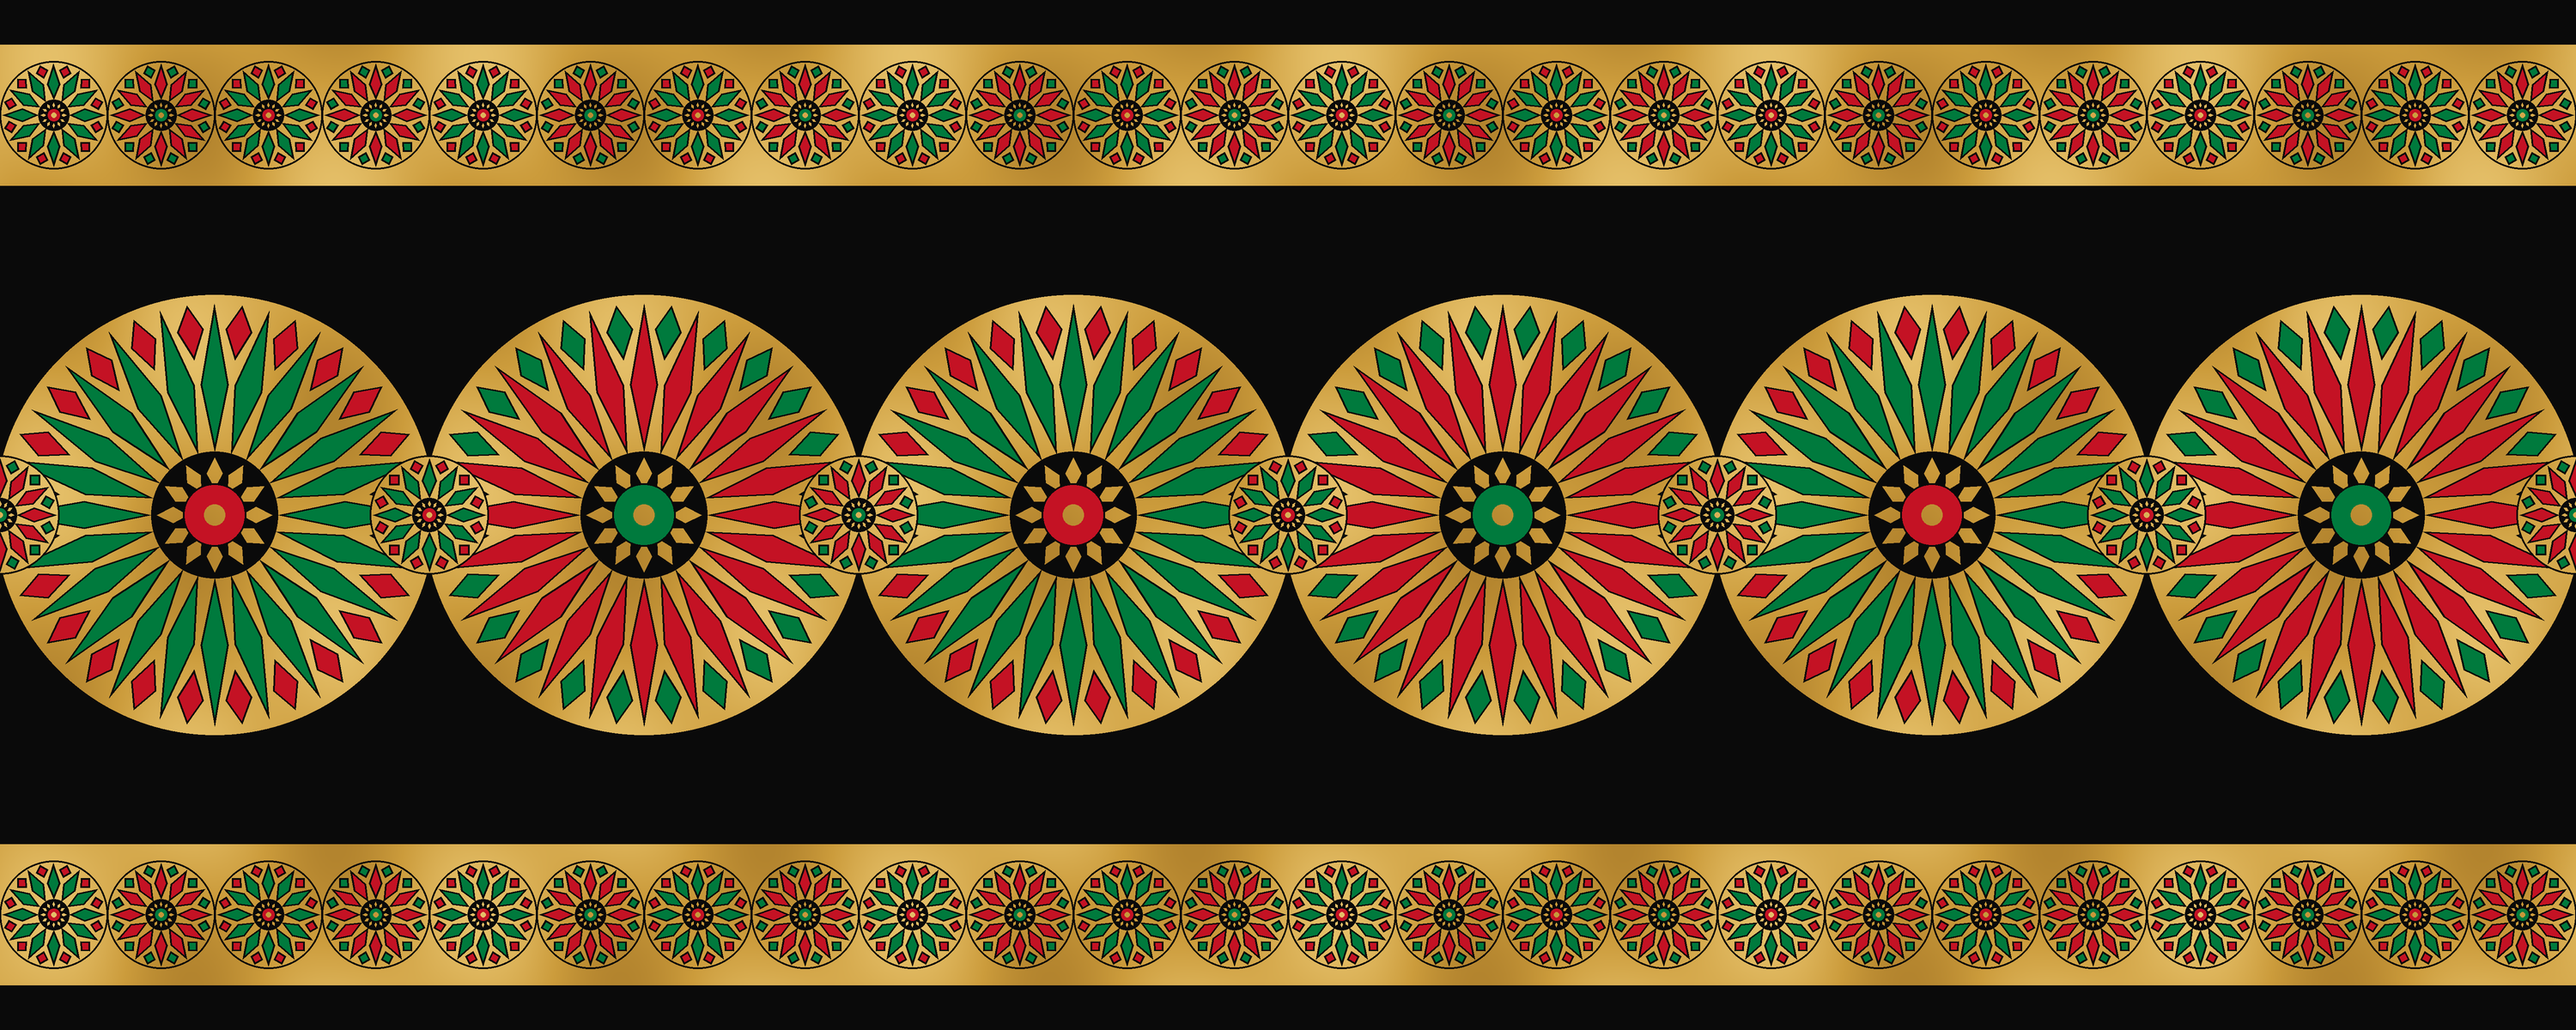
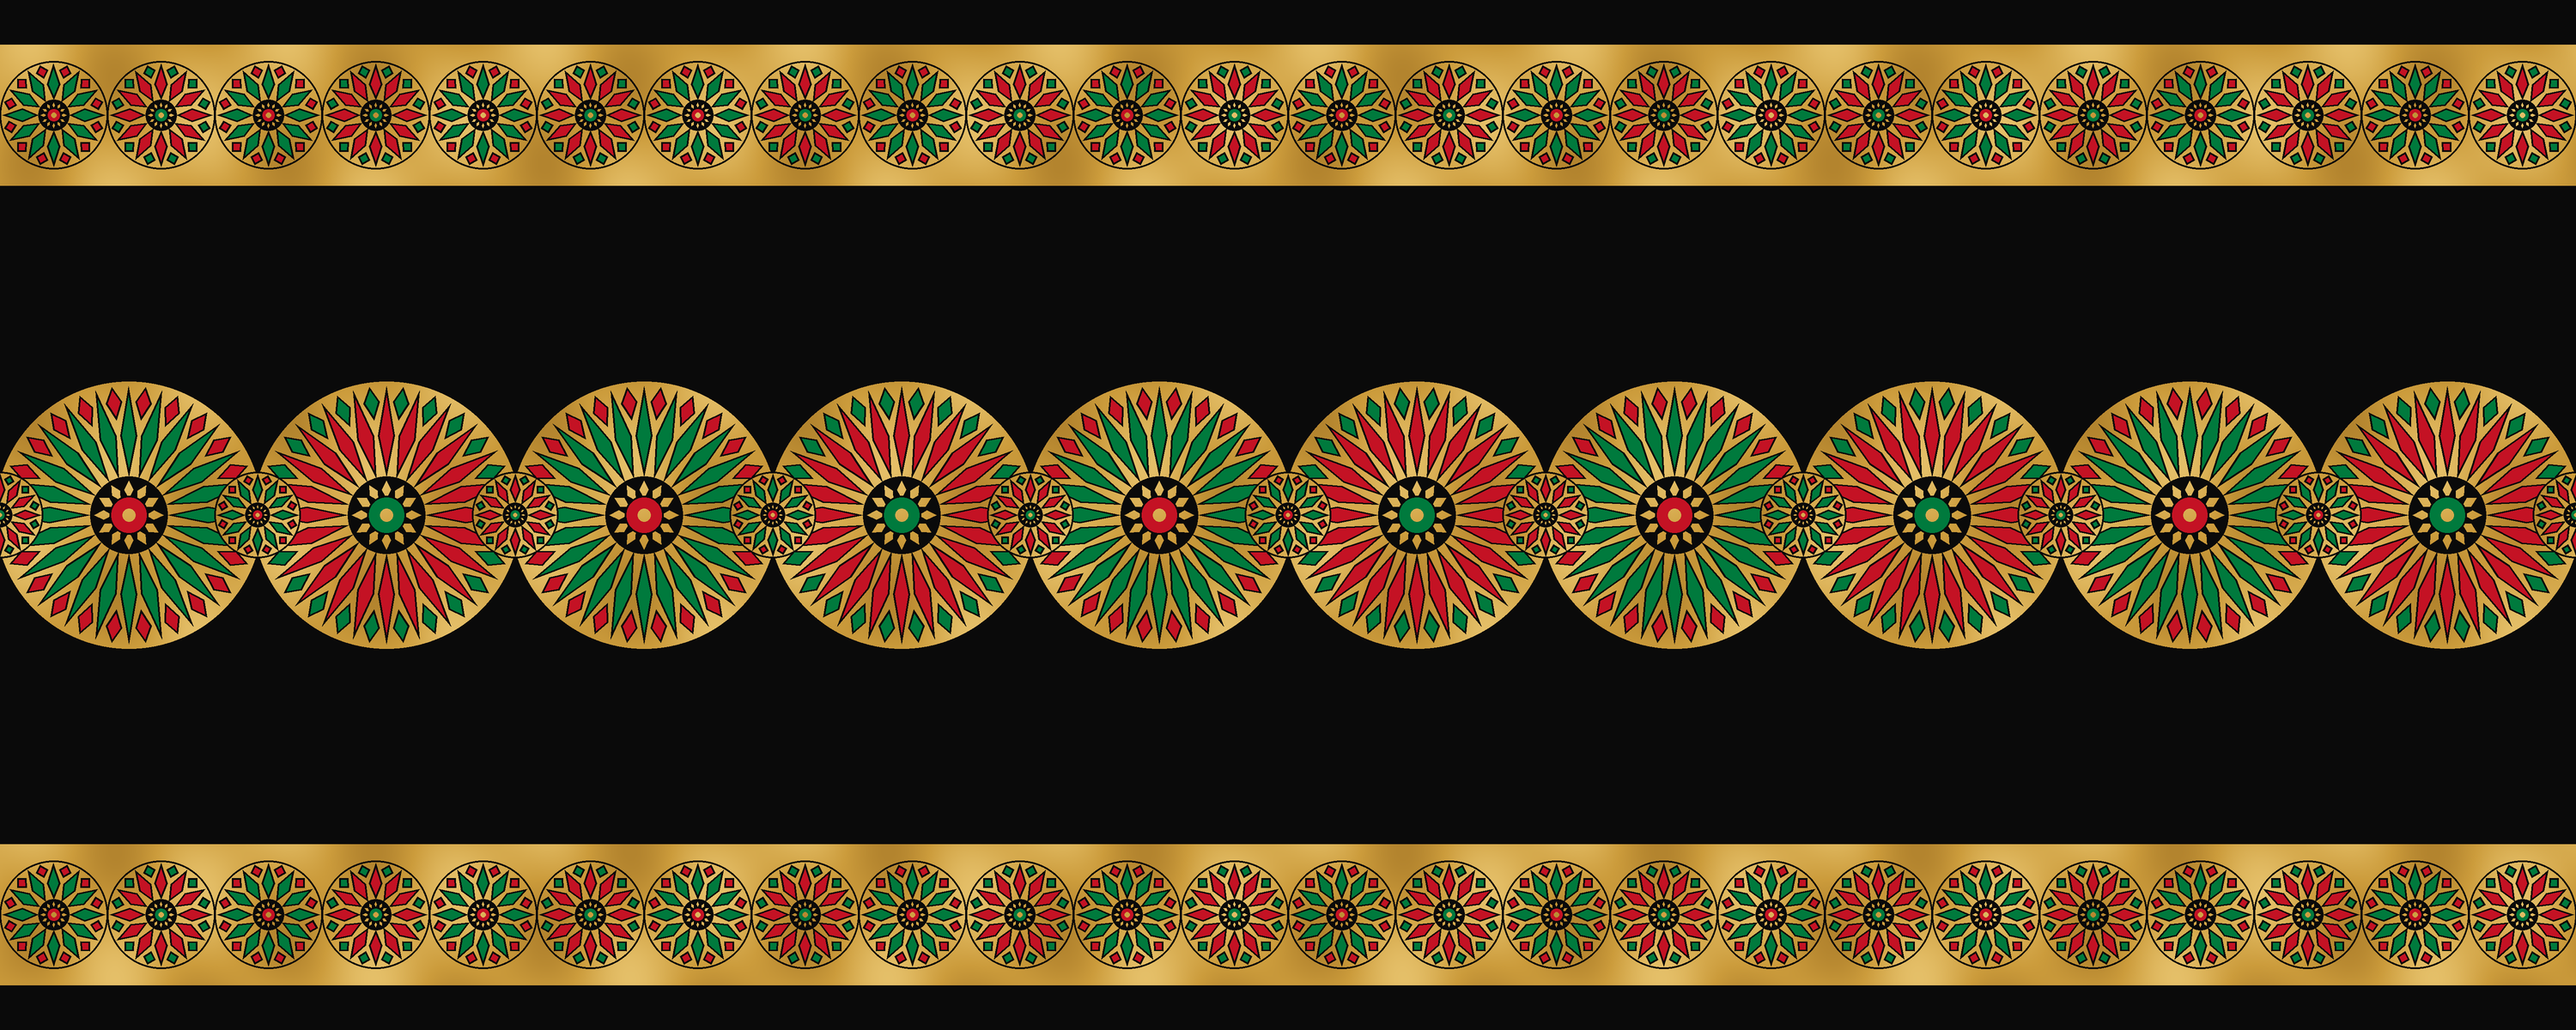
Zellige accent: smaller center rosettes, 10 across
Claude-Session: https://claude.ai/code/session_01Mt1Tg14bgvqpkRSeX5tTDt

diff --git a/heritage-crossbody-bag/make_zellige_pieces.py b/heritage-crossbody-bag/make_zellige_pieces.py
@@ -53,7 +53,7 @@ def mini(d, cx, cy, r, k, g):
 
 
 def details(w=3000, h=1200):
-    """Row of rosettes (6 across, so it repeats end to end) between mosaic bands."""
+    """Row of rosettes (10 across, so it repeats end to end) between mosaic bands."""
     W, H = w * SS, h * SS
     im = Image.new("RGB", (W, H), BLACK)
     d = ImageDraw.Draw(im)
@@ -66,14 +66,14 @@ def details(w=3000, h=1200):
         for i in range(-1, 25):
             mini(d, (i + 0.5) * step_s, cy, H * 0.05, i, g)
     # center row of rosettes on gold discs, alternating red and green
-    n = 6
+    n = 10
     step = W / n
     for i in range(-1, n + 1):
         petal, accent = (GREEN, RED) if i % 2 == 0 else (RED, GREEN)
-        rosette(d, (i + 0.5) * step, H / 2, H * 0.205, 24, petal, accent, g)
+        rosette(d, (i + 0.5) * step, H / 2, H * 0.125, 24, petal, accent, g)
     # small rosettes between the big ones
     for i in range(n + 1):
-        mini(d, i * step, H / 2, H * 0.055, i + 1, g)
+        mini(d, i * step, H / 2, H * 0.04, i + 1, g)
     return gild(im, period=step).resize((w, h), Image.LANCZOS)
 
 
